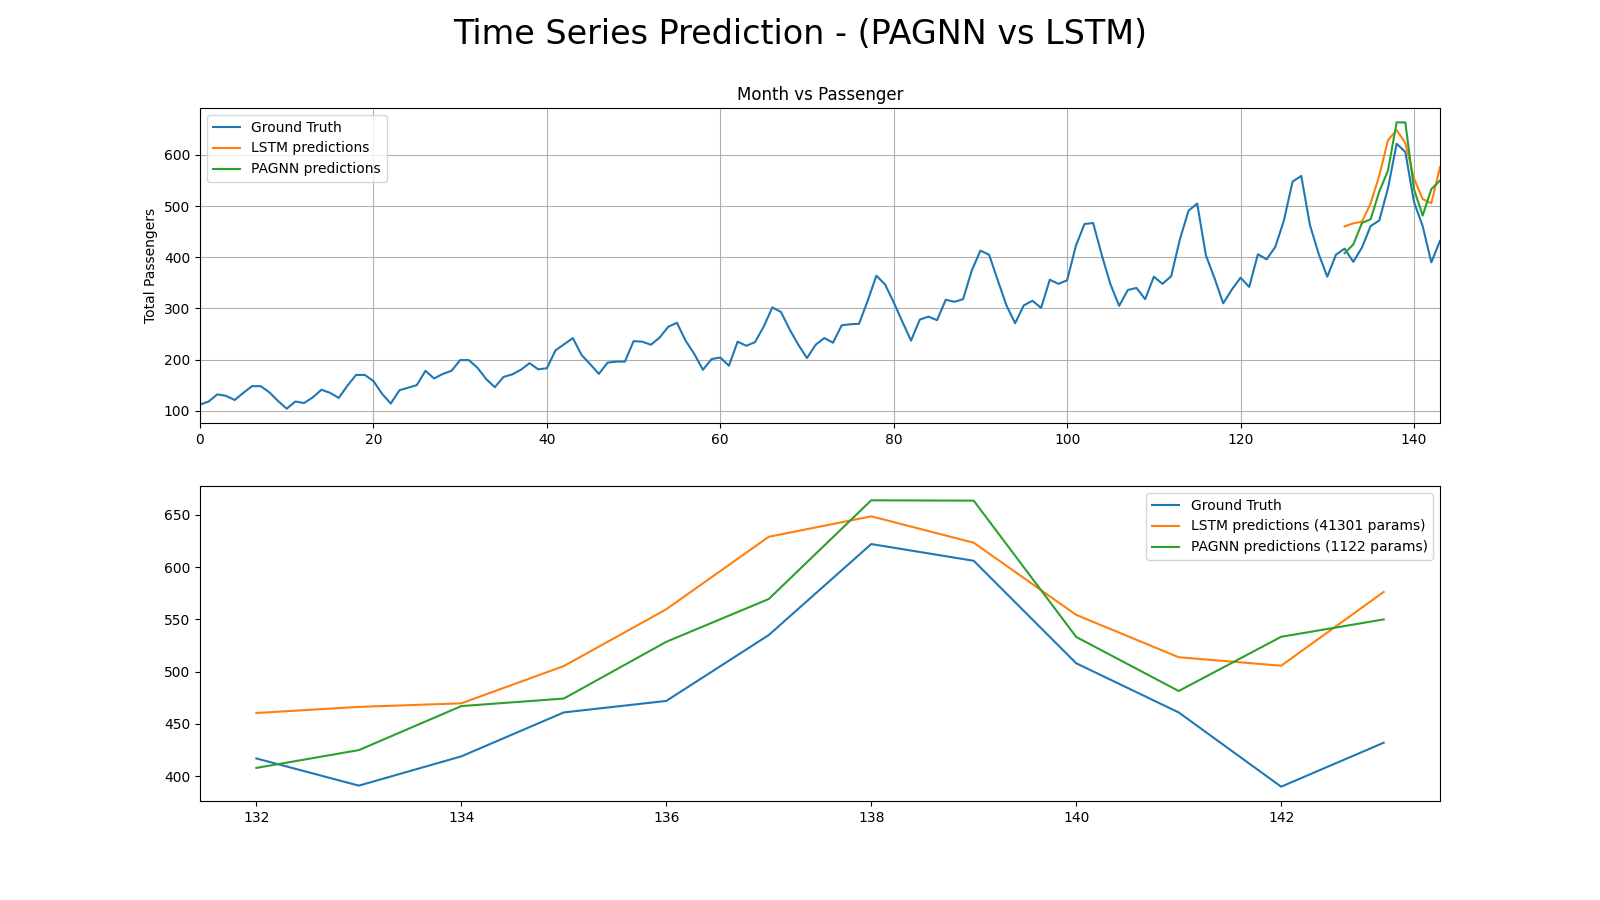
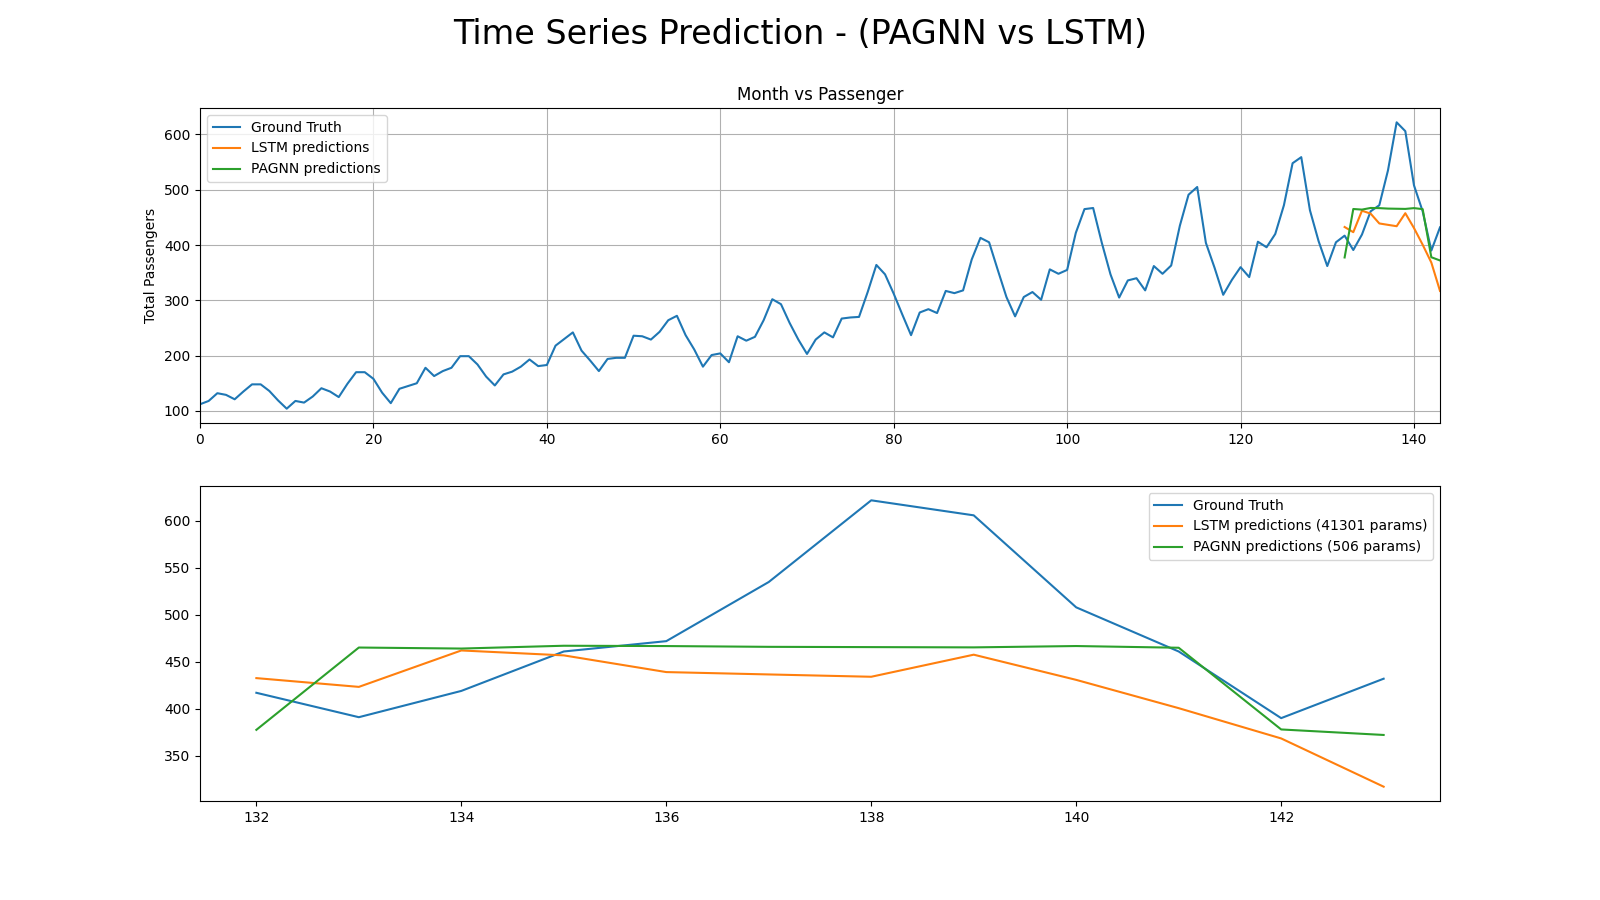
wip

diff --git a/examples/time_series.py b/examples/time_series.py
@@ -80,10 +80,10 @@ if __name__ == '__main__':
     loss_function = nn.MSELoss()
     optimizer = torch.optim.Adam(model.parameters(), lr=0.001)
 
-    pagnn_model = PAGNNLayer(12, 1, 20, steps=5, activation=F.relu, retain_state=False).to(device)
+    pagnn_model = PAGNNLayer(1, 1, 20, steps=3, activation=F.relu, retain_state=False).to(device)
     pagnn_optimizer = torch.optim.Adam(pagnn_model.parameters(), lr=0.001)
 
-    epochs = 300
+    epochs = 1000
 
     for i in range(epochs):
         pagnn_avg_loss = 0
@@ -100,7 +100,7 @@ if __name__ == '__main__':
                             torch.zeros(1, 1, model.hidden_layer_size, device=device))
     
             y_pred = model(seq)
-            y_pred_pagnn = pagnn_model(seq)
+            y_pred_pagnn = pagnn_model(seq, is_sequence=True)
     
             single_loss = loss_function(y_pred, labels)
             avg_loss += single_loss.item()
@@ -129,7 +129,7 @@ if __name__ == '__main__':
             model.hidden = (torch.zeros(1, 1, model.hidden_layer_size, device=device),
                             torch.zeros(1, 1, model.hidden_layer_size, device=device))
             test_inputs.append(model(seq).item())
-            pagnn_test_inputs.append(pagnn_model(seq).item())
+            pagnn_test_inputs.append(pagnn_model(seq, is_sequence=True).item())
 
     actual_predictions = scaler.inverse_transform(np.array(test_inputs[train_window:] ).reshape(-1, 1))
     pagnn_actual_predictions = scaler.inverse_transform(np.array(pagnn_test_inputs[train_window:] ).reshape(-1, 1))

diff --git a/pagnn/pagnn.py b/pagnn/pagnn.py
@@ -62,21 +62,31 @@ class PAGNNLayer(torch.nn.Module):
             if step < n-1:
                 self.state = self.activation(self.state)
 
-    def forward(self, x):
-        self.load_input_neurons(x)
-        self.step(n=self._steps)
+    def forward(self, x, is_sequence=False):
+        if is_sequence:
+            self.reset_state(self._total_neurons)
+            for seq_sample in x:
+                self.load_input_neurons(seq_sample.unsqueeze(-1), retain_state=True)
+            self.step(n=self._steps)
+        else:
+            self.load_input_neurons(x)
+            self.step(n=self._steps)
+
         return self.extract_output_neurons_data()
 
-    def load_input_neurons(self, x):
+    def load_input_neurons(self, x, retain_state=None):
+        if retain_state is None:
+            retain_state = self._retain_state
+
         if len(x.shape) == 1:
             assert x.shape[0] == self._input_neurons
-            if not self._retain_state:
+            if not retain_state:
                 self.reset_state(self._total_neurons)
             self.state[:self._input_neurons] = x
 
         elif len(x.shape) == 2:
             assert x.shape[1] == self._input_neurons
-            if not self._retain_state:
+            if not retain_state:
                 self.reset_state((x.shape[0], self._total_neurons))
             self.state[:, :self._input_neurons] = x
 
